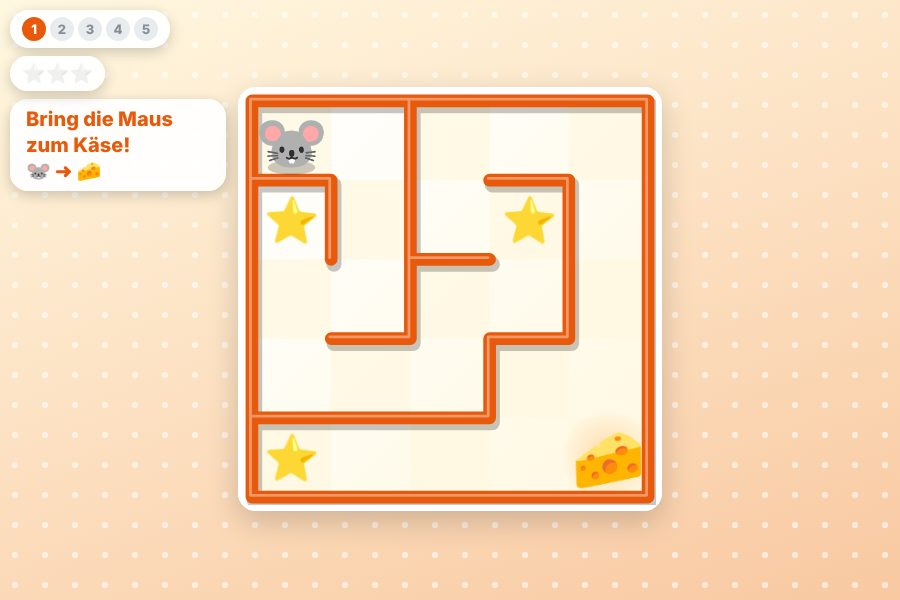
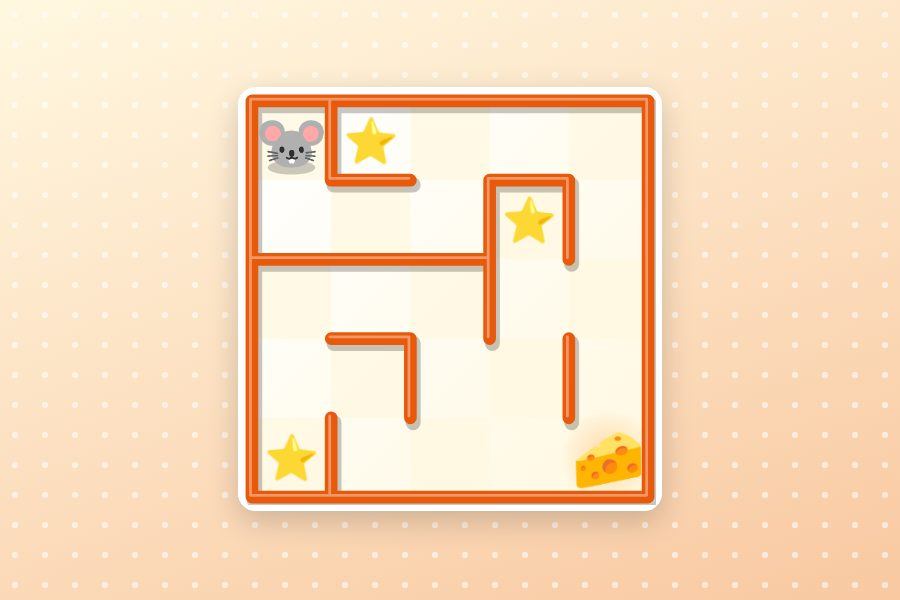
Labyrinth: Vorschaubild nur mit dem Labyrinth
Anzeigen und Aufgabentext waren auf der Kachel winzig und unruhig. Die Stern-Symbole
blenden nur noch Filter und Deckkraft über (transition: all verzögerte das Ausblenden).

Claude-Session: https://claude.ai/code/session_01YaHrL2BtCNNN3Ebq98rU1X

Changed region(s): [[0.28, 0.18, 0.6533, 0.84], [0.0, 0.0, 0.28, 0.33]]

diff --git a/public/games/labyrinth/index.html b/public/games/labyrinth/index.html
@@ -40,7 +40,7 @@ body.quer #aufgabe { left: var(--gt-left); transform: none; text-align: left; }
 .level span.jetzt { background: var(--wand); color: #fff; }
 .level span.fertig { background: #2fb457; color: #fff; }
 .sterne { font-size: 19px; padding: 6px 12px; }
-.sterne span { filter: grayscale(1); opacity: .35; display: inline-block; transition: all .3s; }
+.sterne span { filter: grayscale(1); opacity: .35; display: inline-block; transition: filter .3s, opacity .3s; }
 .sterne span.an { filter: none; opacity: 1; animation: pulsieren .5s; }
 
 /* Steuerkreuz: gedrückt halten = weiterlaufen. Touch: großes Kreuz; Maus: klein wie die Pfeiltasten */
